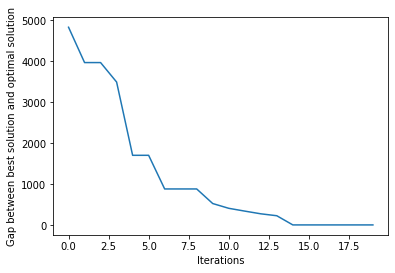
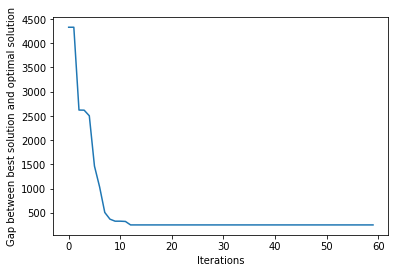
[BOT] Update README.md

diff --git a/README.md b/README.md
@@ -37,19 +37,16 @@ The `ant_coder` function can load the TSP test sets of the test_set folder, name
 - ch130
 - Any test set you wish, as long you add them to folder following the same format.
 
-`G` is the graph representation of the problem. Its a dictionnary containing a uninitalized pheromones matrix, a heuristics matrix and a cost matrix
+`G` is the graph representation of the problem. Its a dictionnary containing a uninitialized pheromone matrix, a heuristics matrix and a cost matrix
 
 
 ```python
 G, opt_score = Antcoder('test_set/berlin52')
 ```
 
-Ant colony optmization algorithms can be built in the same fashion as a Pipeline object. You only need to put the blocks in the right order.
+Ant colony optmization algorithms can be built in the same fashion as a Pipeline object from `scikit-learn`. You only need to put the blocks in the right order.
 
-For example, let's instantiate two different algorithms
-
-
-> Careful ! The G dictionnary is modified inplace during computation. 
+> Careful ! The G dictionnary is modified inplace during computation. If you want to try different run with the same datapoints, you shall use `deepcopy` from the `copy` built-in library.
 
 Below, you can see an example of an ACO Pipeline
 
@@ -61,30 +58,32 @@ aco_pipeline = ACO_Pipeline(
         ("Sol", SolutionConstructor()),
         ("DA", DaemonActions()),
         ("Updater", BestTourPheromonesUpdater()),
-    ], iter_max=60
+
+    ], 
+    iter_max=60
 )
 ```
 
-An `ACO_Pipeline` is composed by objects inhering from the **semi abstract** class `ACO_Step`. Those steps are more or less the main composants of any ACO Algorithms and are independtly builded so that one can use them in other situation or can easily build new blocks.
-Let's dive in. 
+An `ACO_Pipeline` is composed by objects inhering from the **semi abstract** class `ACO_Step`. Those steps are more or less the main composants of any ACO Algorithms and are independently built so that one can use them in other situations or can easily build new blocks.
+Let's dive in !
 
 ## The `ACO_Steps`
 
 ### `Planner`
-First of all, there is the `Planner` step. In very basic use case, it is not really important and only serve as the place to define your ants parameters. In more advanced cases, such as **iteration-dependent ants parameters**, that's where the magic happen.
+First of all, there is the `Planner` step. In very basic use cases, it is not really important and only serves as the place to define your ants parameters. In more advanced cases, such as **iteration-dependent ants parameters**, that's where the magic happen.
 
 The `Planner` object have one parameter which is a `dict` of those parameters :
 
--   `alpha`: coefficient associated to the pheromones trails
--   `beta`: coefficient associated to the heuristic information
--   `q`: Corresponds to the level of exploitation in Ant Colony System. When not precised, it is set to 0 which is equivalent to Ant System
--   `mask`: Corresponds to a mask applied on the graph. It is useful when you want to reduce your problem to a subset of cities
+-   `alpha`: coefficient associated to the **pheromone trails**
+-   `beta`: coefficient associated to the **heuristic information**
+-   `q`: Corresponds to the **level of exploitation** in Ant Colony System. When not precised, it is set to 0 which is equivalent to Ant System
+-   `mask`: Corresponds to a **mask applied on the graph**. It is useful when you want to reduce your problem to a subset of cities. If not precized, a generic all covering mask is set.
 
-If you are note familliar with those notations please refer to appropriate ACO litterature (Dorigo, Stützle, ...)
+*If you are not familliar with those notations please refer to appropriate ACO litterature (Dorigo, Stützle, ...)*
 
-The `RandomizedPlanner` object, which inheritates from the `Planner`, introduces random sampling of ants parameters. It have two more parameters, `alpha_bounds` and `beta_bounds` which are the bounds of the uniform distribution from which each ant paramters is drawn. 
+The `RandomizedPlanner` object, which inheritates from the `Planner`, **introduces random sampling** of ants parameters. It have two more parameters, `alpha_bounds` and `beta_bounds` which are the bounds of the uniform distribution from which each ant parameters is drawn. 
 
-> To add iteration-dependant ant parameters, I'd recommend to inheritate from `Planner` ant induce mutations in the `run` method which takes the iteration number as argument.
+> To add *iteration-dependant ant parameters*, I'd recommend to inheritate from `Planner` ant induce mutations in the `run` method which takes the iteration number as argument.
 
 An example of instanciation : 
 
@@ -97,7 +96,7 @@ planner_step = RandomizedPlanner(alpha_bounds=[1.0, 1.0], beta_bounds=[1., 6.], 
 
 ### The `SolutionConstructor`
 
-The `SolutionConstructor` step is at the core of ACO. It is where ants are actually going through the graph to build feasible solutions. No parameters are required. 
+The `SolutionConstructor` step is at the core of ACO. It is where ants are actually **going through the graph** to build feasible solutions. No parameters are required. 
 For now, ants are running concurrently, using the `thread` built-in library of Python. Parallel computation should arrive soon.
 It should be remarked that solution are sorted by descending quality.
 An example of instanciation : 
@@ -109,7 +108,7 @@ construction_step = SolutionConstructor()
 
 ### `DaemonActions`
 
-If the first steps are kind of necessary, this one can totally be exempted from the pipeline. It implements a 2-opt local search on the solutions built during the construction step.
+If the first steps are kind of necessary, this one can totally be exempted from the pipeline. It implements a **2-opt local search** on the solutions built during the construction step.
 It as one parameter, `k`, that is the number of best solutions that shall go through local search. 
 
 An example of instanciation : 
@@ -121,13 +120,13 @@ daemon_step = DaemonActions(k=2)
 
 ### `PheromonesUpdaters`
 
-It's the final step of an ACO algorithm iteration. It evaporates pheromones and update pheromone trails according the solution found. 
+It's the final step of an ACO algorithm iteration. It **evaporates** pheromones and **reinforces** pheromone trails according the solutions found. 
 General parameters are : 
 -   `rho` : the evaporation rate (can be set to 0 for no evaporation)
 -   `Q` : The normalization parameter of the pheromone reinforcement update (Q/cost)
 -   `bounds` : if precised, it implements MMAS policy of bounding pheromone trails
 
-Then there is 3 Updaters that inherites from the abstract base Updater :
+Then there is **3 Updaters** that inherits from the abstract **base Updater** :
 - `ProportionnalPheromonesUpdater` : basic updater, reinforcement in Q/cost for all solutions
 - `BestSoFarPheromonesUpdater` : Reinforces the `k` best paths found so far
 - `BestTourPheromonesUpdater`: Reinforces the `k` best paths found in the current lap
@@ -143,13 +142,14 @@ ph_updater = BestTourPheromonesUpdater(k=2, bounds=[0.1, 1])
 
 ___
 
+## Now you can play with it !
 
 The ACO_Pipeline object return the list of all solutions built during computation
 
 
 ```python
 solutions_w_daemon = aco_pipeline.run(G=G)
-scores_w_daemon = np.array([el[1] for el in solutions_w_daemon]) - opt_score
+scores_w_daemon = np.array([el[1] for el in solutions_w_daemon['solutions']]) - opt_score
 
 plt.plot(scores_w_daemon)
 plt.xlabel('Iterations')
@@ -157,7 +157,7 @@ plt.ylabel('Gap between best solution and optimal solution')
 plt.show()
 ```
 
-    SwarmPy | Best score : 7544.365901904086: 100%|██████████| 20/20 [00:04<00:00,  4.51it/s] 
+    SwarmPy | Score : 7793.8275879572375: 100%|██████████| 60/60 [00:13<00:00,  4.34it/s]
 
 
 
